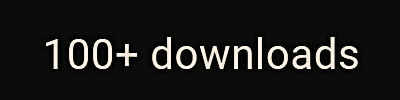
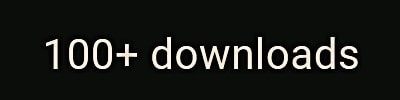
compressed images, changed color pallete, improved mobile divs

diff --git a/index.html b/index.html
@@ -37,16 +37,15 @@
     <section id="section1">
       
       <!-- About: Apps -->
-       <div>
-        <h2>Applications</h2>
-
+      <h2>Applications</h2> 
+      <div>
         <!-- Memory Puzzle App & Expert Badge -->
          <div id="div-app">
           <a href="https://play.google.com/store/apps/details?id=com.tis.memorycardgame">
               <img 
                 class="im-app" 
-                loading="lazy" 
-                src="https://play-lh.googleusercontent.com/HDFekrz13LsOACjLydLY5GBaVc6XhGiTqXpDH4-Zaj3ol8vOyWPshmfzjZQjyWOMQPj04168cFXEs7H6ba3YHA=w480-h960-rw"
+                loading="lazy"
+                src="res/apps/memory-icon.png" 
                 title="Memory: Match & Progress"
               /></a>
               <a href="https://play.google.com/store/apps/details?id=com.tis.memorycardgame">
@@ -64,7 +63,7 @@
             <img 
               class="im-app" 
               loading="lazy" 
-              src="https://play-lh.googleusercontent.com/RO4fWF_3NHSq7hwopNpIIrpt1equj425kubKsWl22DerU5ryQ8tG9-3vmhiFdBddQUU=w480-h960"
+              src="res/apps/bbob-icon.png"
               title="Bouncing Bob"
             /></a>
             <a href="https://play.google.com/store/apps/details?id=com.tis.square2">
@@ -80,36 +79,35 @@
 
 
       <!-- About: Contact & GitHub -->
-        <p>
-          <em>Contact Info:</em></p>
-        <div>
-        <a href="mailto:tomtom.inbar@gmail.com">
-            <img class= "inviting" 
-                src="res/icons/gmail.png" 
-                alt="Gmail" 
-                style="animation-delay: 1s;"
-                loading="lazy"
-                title="Gmail"
-                /></a>
+        <p><em>Contact Info:</em></p>
+        <div id="contact-info">
+          <a href="mailto:tomtom.inbar@gmail.com">
+              <img class= "inviting" 
+                  src="res/icons/gmail.png" 
+                  alt="Gmail" 
+                  style="animation-delay: 1s;"
+                  loading="lazy"
+                  title="Gmail"
+                  /></a>
 
 
-        <a href="https://www.linkedin.com/in/tom-inbar-159118248/">
+          <a href="https://www.linkedin.com/in/tom-inbar-159118248/">
+              <img class= "inviting" 
+                  src="res/icons/linked.png" 
+                  alt="LinkedIn" 
+                  style="animation-delay: 2s;"
+                  loading="lazy"
+                  title="LinkedIn"
+                  /></a>
+              
+          <a href="https://github.com/tomi-1997">
             <img class= "inviting" 
-                src="res/icons/linked.png" 
-                alt="LinkedIn" 
-                style="animation-delay: 2s;"
+                src="res/icons/github.png" 
+                alt="GitHub" 
+                style="animation-delay: 3s;"
                 loading="lazy"
-                title="LinkedIn"
+                title="GitHub"
                 /></a>
-            
-        <a href="https://github.com/tomi-1997">
-          <img class= "inviting" 
-              src="res/icons/github.png" 
-              alt="GitHub" 
-              style="animation-delay: 3s;"
-              loading="lazy"
-              title="GitHub"
-              /></a>
         </div>
         <!-- About: Contact END -->
 
@@ -208,7 +206,7 @@
             <div class="overlay">Real-Time Drawing Rooms</div>
           </div>
           <img class='im-brd-small' src='res/icons/py.png' loading='lazy'  alt=''>
-          <img class='im-brd-small' src='res/icons/js.png' loading='lazy'  alt=''>
+          <img class='im-brd-small' src='res/icons/gcloud.png' loading='lazy'  alt=''>
           <img class='im-brd-small' src='res/icons/docker.png' loading='lazy'  alt=''>
         </div>
 

diff --git a/style.css b/style.css
@@ -1,14 +1,18 @@
 html
 {
-    scroll-behavior: smooth;
+  scroll-behavior: smooth;
 }
 
+:root {
+  --primary-color: skyblue;
+  --secondary-color: #FAB387;
+}
 
 body 
 {
   display: flex;
   margin: 0;
-  background-color: #1b1b1b;
+  background-color: #161616;
   color: #e0e0e0;
   min-height: 100vh;
   font-size: medium;
@@ -18,7 +22,7 @@ body
 h1
 {
   padding: 16px;
-  background: linear-gradient(140deg, skyblue, plum);
+  background: linear-gradient(130deg, var(--primary-color), var(--secondary-color));
   -webkit-background-clip: text;
   background-clip: text;
   color: transparent;
@@ -28,7 +32,14 @@ h1
 h2
 {
   color: gainsboro;
-  letter-spacing: 1px;
+  
+  display: inline-block;
+  background: linear-gradient(130deg, var(--secondary-color), var(--primary-color));
+  background-size: auto;
+  -webkit-background-clip: text;
+  background-clip: text;
+  color: transparent;
+
 }
 
 #h-div
@@ -41,22 +52,35 @@ h2
 nav /* Categories to the left */
 {
   width: 20%;
-  padding: 32px;
+  padding: 16px;
   box-sizing: border-box;
   position: -webkit-sticky; /* for Safari */
   position: sticky;
   top: 0;
+  padding-top: 32px;
   align-self: flex-start; /* Sticky with flex box */
 
 }
 
-nav ul 
+ul 
 {
-  list-style-type: circle;
+  list-style-type: "";
   padding: 32px;
-  
+  text-decoration: none;
   border: 1px solid #777;
   border-radius: 32px;
+}
+
+ul li::before
+{
+  content: "{ ";
+  color: var(--primary-color);
+}
+ul li::after
+{
+  content: " }";
+  color: var(--secondary-color)
+
 }
 
 nav li 
@@ -66,13 +90,14 @@ nav li
 
 nav a 
 {
-  color: #e0e0e0;
+  color: #e0e0e0; 
   padding: 4px;
+  text-decoration: none;
 }
 
-nav a:hover 
+nav a:hover
 {
-  background: linear-gradient(145deg,skyblue, plum);
+  background: linear-gradient(145deg, var(--primary-color), var(--secondary-color));
   border-radius: 8px;
   color: black;
 }
@@ -111,24 +136,53 @@ section
   {
     width: 100%;
     position: static;
-    margin-top: 32px;
+    margin-top: 0px;
+  }
+  #h-div
+  {
+    border: none;
   }
   h1
   {
     text-align: center;
+    background: linear-gradient(0deg, var(--secondary-color), var(--primary-color));
+    background-size: auto;
+    -webkit-background-clip: text;
+    background-clip: text;
+    color: transparent;
   }
-  nav li 
+
+  h2
   {
-    margin-left: 16px;
+    text-align: center;
+    background: linear-gradient(0deg, var(--primary-color), var(--secondary-color));
+    background-size: auto;
+    -webkit-background-clip: text;
+    background-clip: text;
+    color: transparent;
+  }
+  nav ul
+  {
+    display: none;
+  }
+
+  #contact-info
+  {
+    display: flex;
+    align-items: center;
+    justify-content: center;
   }
   body
   {
     font-size: xx-large;
     display: grid;
   }
-  .inviting
+
+  .im-app
   {
-    width: 25%;
+    /* App icon and achievement image 
+    take width of total 90%*/
+    width: 45% !important;
   }
 }
 
@@ -205,7 +259,6 @@ section
   width: 128px;
   opacity: 0.6;
   margin-right: 16px;
-  animation: fade-in 3s ease;
 }
 
 .im-app:hover /* Emphasize image's border on hover & a little pop */
@@ -282,7 +335,7 @@ section
   z-index: 99;
   text-decoration: none;
 
-  background: linear-gradient(145deg,skyblue, plum);
+  background: linear-gradient(145deg, var(--primary-color), var(--secondary-color));
   cursor: pointer;
   padding: 8px;
   border-radius: 16px; /* Rounded corners */  
